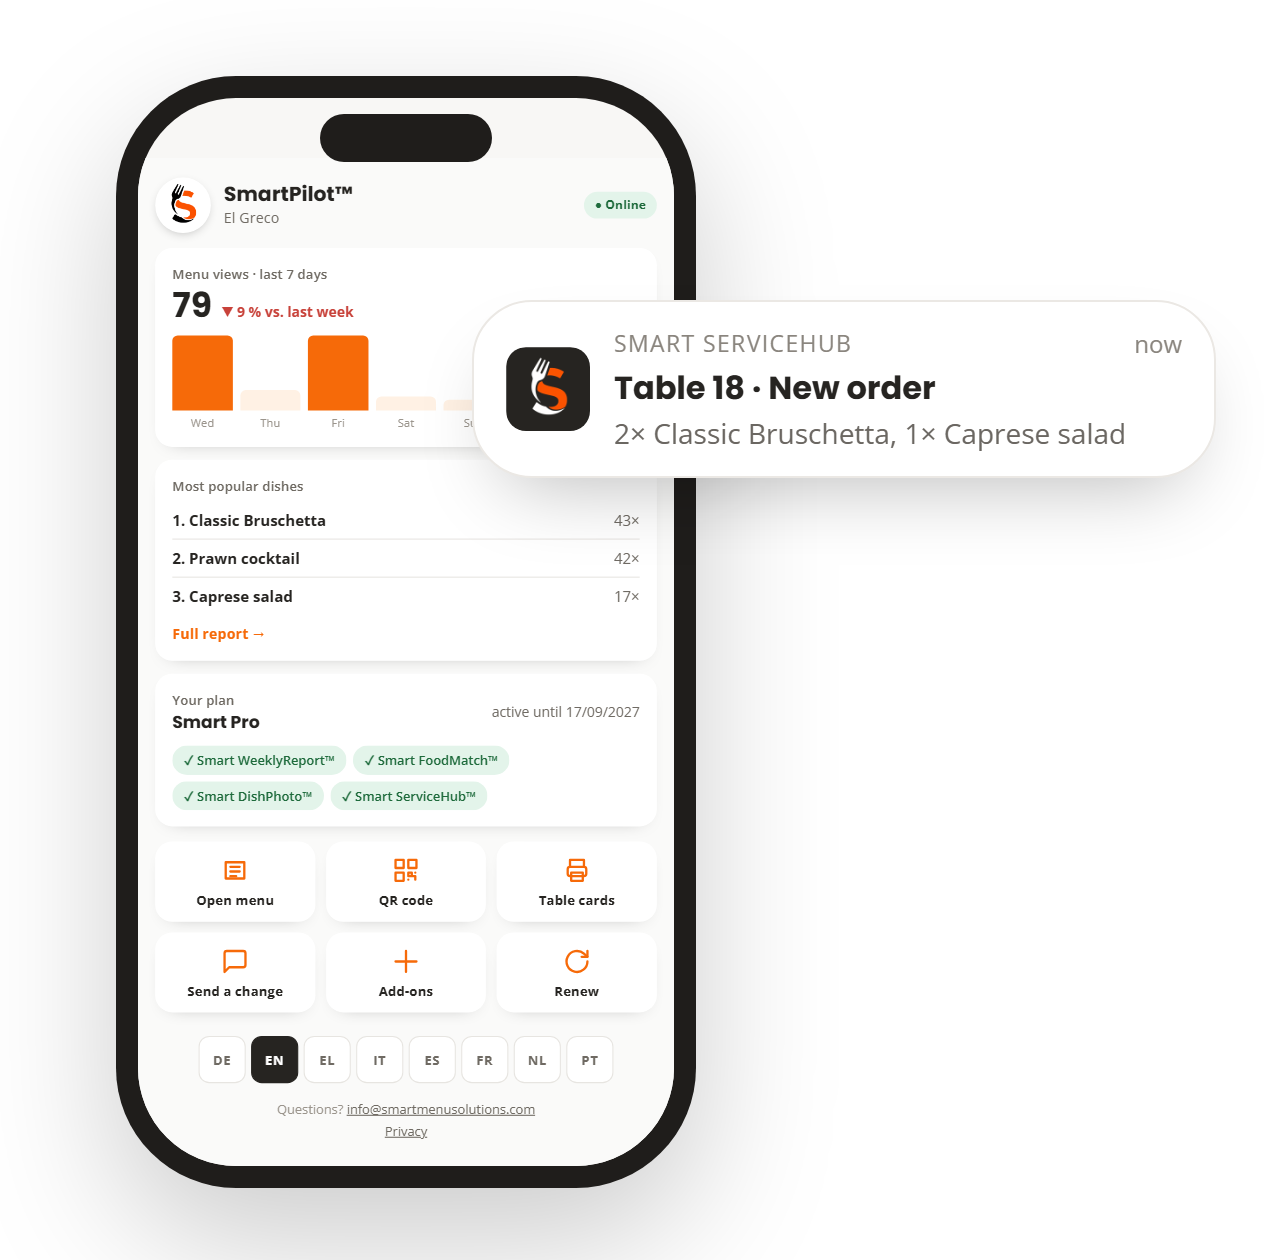
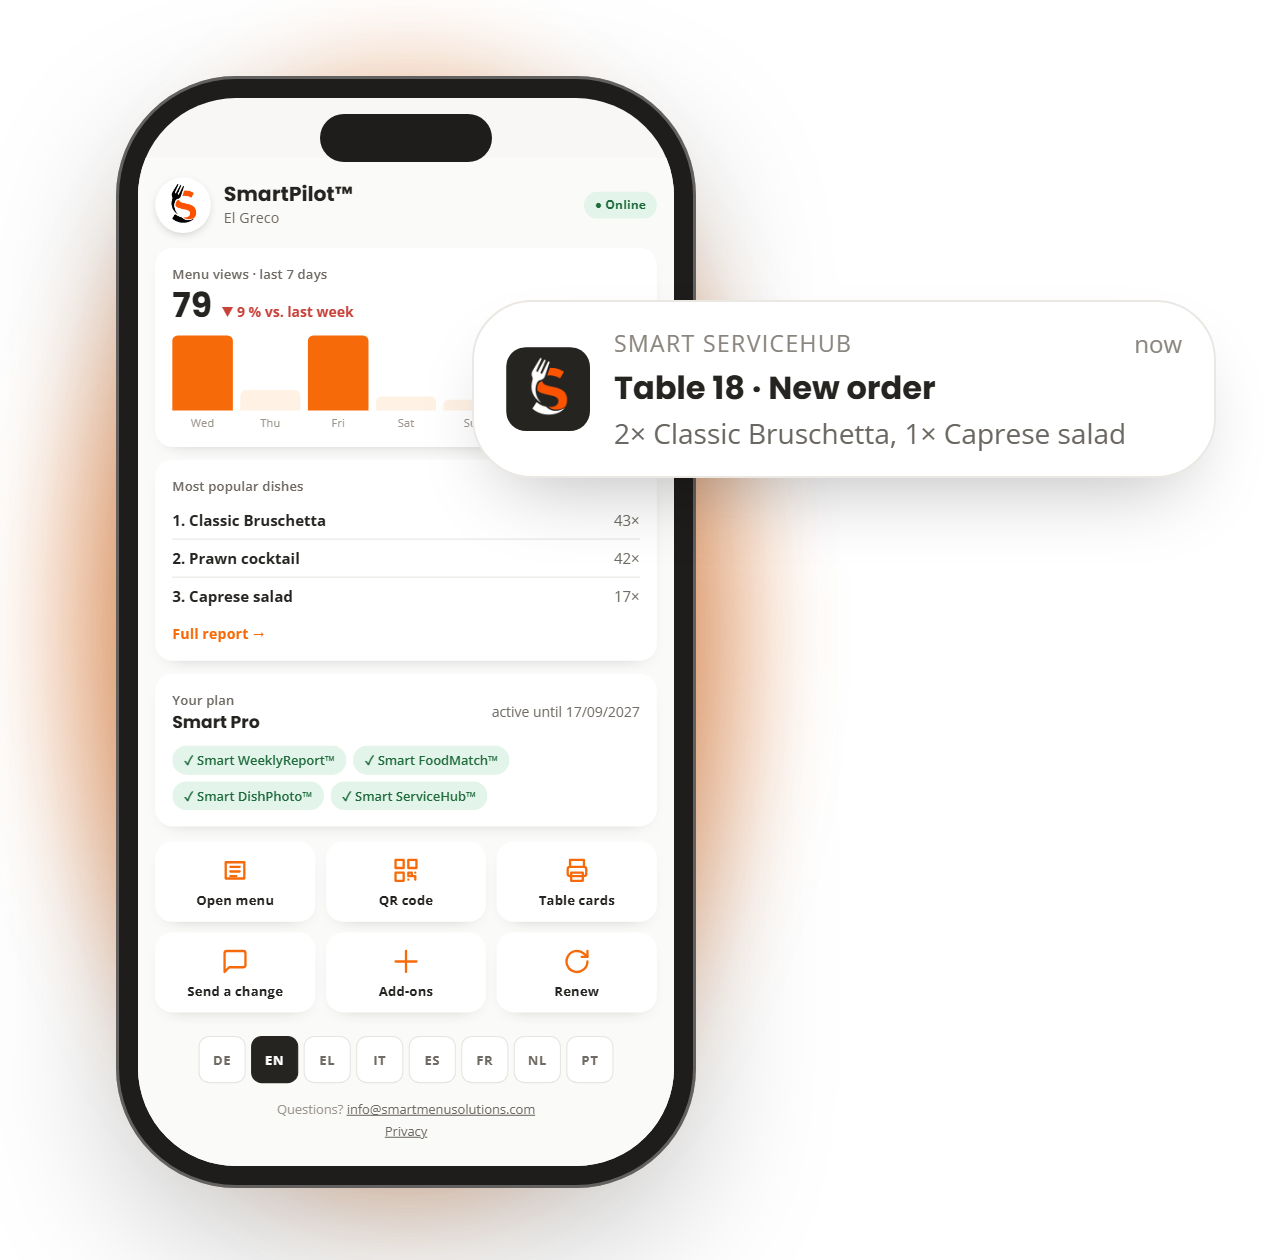
style(home): SmartPilot(TM) phone - black with a light rim and an orange glow
The black phone frame disappeared on the dark section. The pictures
app-showcase-{de,en,it}.png now show the phone in black with a thin light
edge and a soft orange glow behind it (the user's pick of three variants;
orange frame rejected). Image ?v=5 on the home and our-services pages.

diff --git a/de/our-services.html b/de/our-services.html
@@ -118,7 +118,7 @@
           <p class="app-note">Mit Smart ServiceHub™ bekommen außerdem Küche, Bar, Kasse und Service Push-Benachrichtigungen aufs Handy.</p>
         </div>
         <div class="app-showcase-visual">
-          <img src="../assets/images/app-showcase-de.png?v=3" alt="Die App SmartPilot™ auf dem Handy, mit einer Push-Nachricht über eine neue Bestellung" width="640" height="630" loading="lazy">
+          <img src="../assets/images/app-showcase-de.png?v=5" alt="Die App SmartPilot™ auf dem Handy, mit einer Push-Nachricht über eine neue Bestellung" width="640" height="630" loading="lazy">
         </div>
       </div>
     </div>

diff --git a/de/index.html b/de/index.html
@@ -323,7 +323,7 @@
           <p class="app-note">In jedem Paket enthalten. Die Push-Benachrichtigungen gehören zu Smart ServiceHub™.</p>
         </div>
         <div class="app-showcase-visual">
-          <img src="../assets/images/app-showcase-de.png?v=3" alt="Die App „SmartPilot™“ auf dem Handy, mit einer Push-Nachricht über eine neue Bestellung" width="640" height="630" loading="lazy">
+          <img src="../assets/images/app-showcase-de.png?v=5" alt="Die App „SmartPilot™“ auf dem Handy, mit einer Push-Nachricht über eine neue Bestellung" width="640" height="630" loading="lazy">
         </div>
       </div>
     </div>

diff --git a/it/our-services.html b/it/our-services.html
@@ -118,7 +118,7 @@
           <p class="app-note">Con Smart ServiceHub™ cucina, bar, cassa e sala ricevono anche notifiche push sul telefono.</p>
         </div>
         <div class="app-showcase-visual">
-          <img src="../assets/images/app-showcase-it.png?v=3" alt="L’app SmartPilot™ sullo smartphone, con una notifica push per un nuovo ordine" width="640" height="630" loading="lazy">
+          <img src="../assets/images/app-showcase-it.png?v=5" alt="L’app SmartPilot™ sullo smartphone, con una notifica push per un nuovo ordine" width="640" height="630" loading="lazy">
         </div>
       </div>
     </div>

diff --git a/it/index.html b/it/index.html
@@ -323,7 +323,7 @@
           <p class="app-note">Incluso in ogni piano. Le notifiche push fanno parte di Smart ServiceHub™.</p>
         </div>
         <div class="app-showcase-visual">
-          <img src="../assets/images/app-showcase-it.png?v=3" alt="L’app “SmartPilot™” sullo smartphone, con una notifica push per un nuovo ordine" width="640" height="630" loading="lazy">
+          <img src="../assets/images/app-showcase-it.png?v=5" alt="L’app “SmartPilot™” sullo smartphone, con una notifica push per un nuovo ordine" width="640" height="630" loading="lazy">
         </div>
       </div>
     </div>

diff --git a/our-services.html b/our-services.html
@@ -118,7 +118,7 @@
           <p class="app-note">With Smart ServiceHub™, kitchen, bar, cashier and service also get push notifications on their phones.</p>
         </div>
         <div class="app-showcase-visual">
-          <img src="assets/images/app-showcase-en.png?v=3" alt="The SmartPilot™ app on a phone, with a push notification about a new order" width="640" height="630" loading="lazy">
+          <img src="assets/images/app-showcase-en.png?v=5" alt="The SmartPilot™ app on a phone, with a push notification about a new order" width="640" height="630" loading="lazy">
         </div>
       </div>
     </div>

diff --git a/index.html b/index.html
@@ -324,7 +324,7 @@
           <p class="app-note">Included in every plan. Push notifications come with Smart ServiceHub™.</p>
         </div>
         <div class="app-showcase-visual">
-          <img src="assets/images/app-showcase-en.png?v=3" alt="The “SmartPilot™” app on a phone, with a push notification about a new order" width="640" height="630" loading="lazy">
+          <img src="assets/images/app-showcase-en.png?v=5" alt="The “SmartPilot™” app on a phone, with a push notification about a new order" width="640" height="630" loading="lazy">
         </div>
       </div>
     </div>
